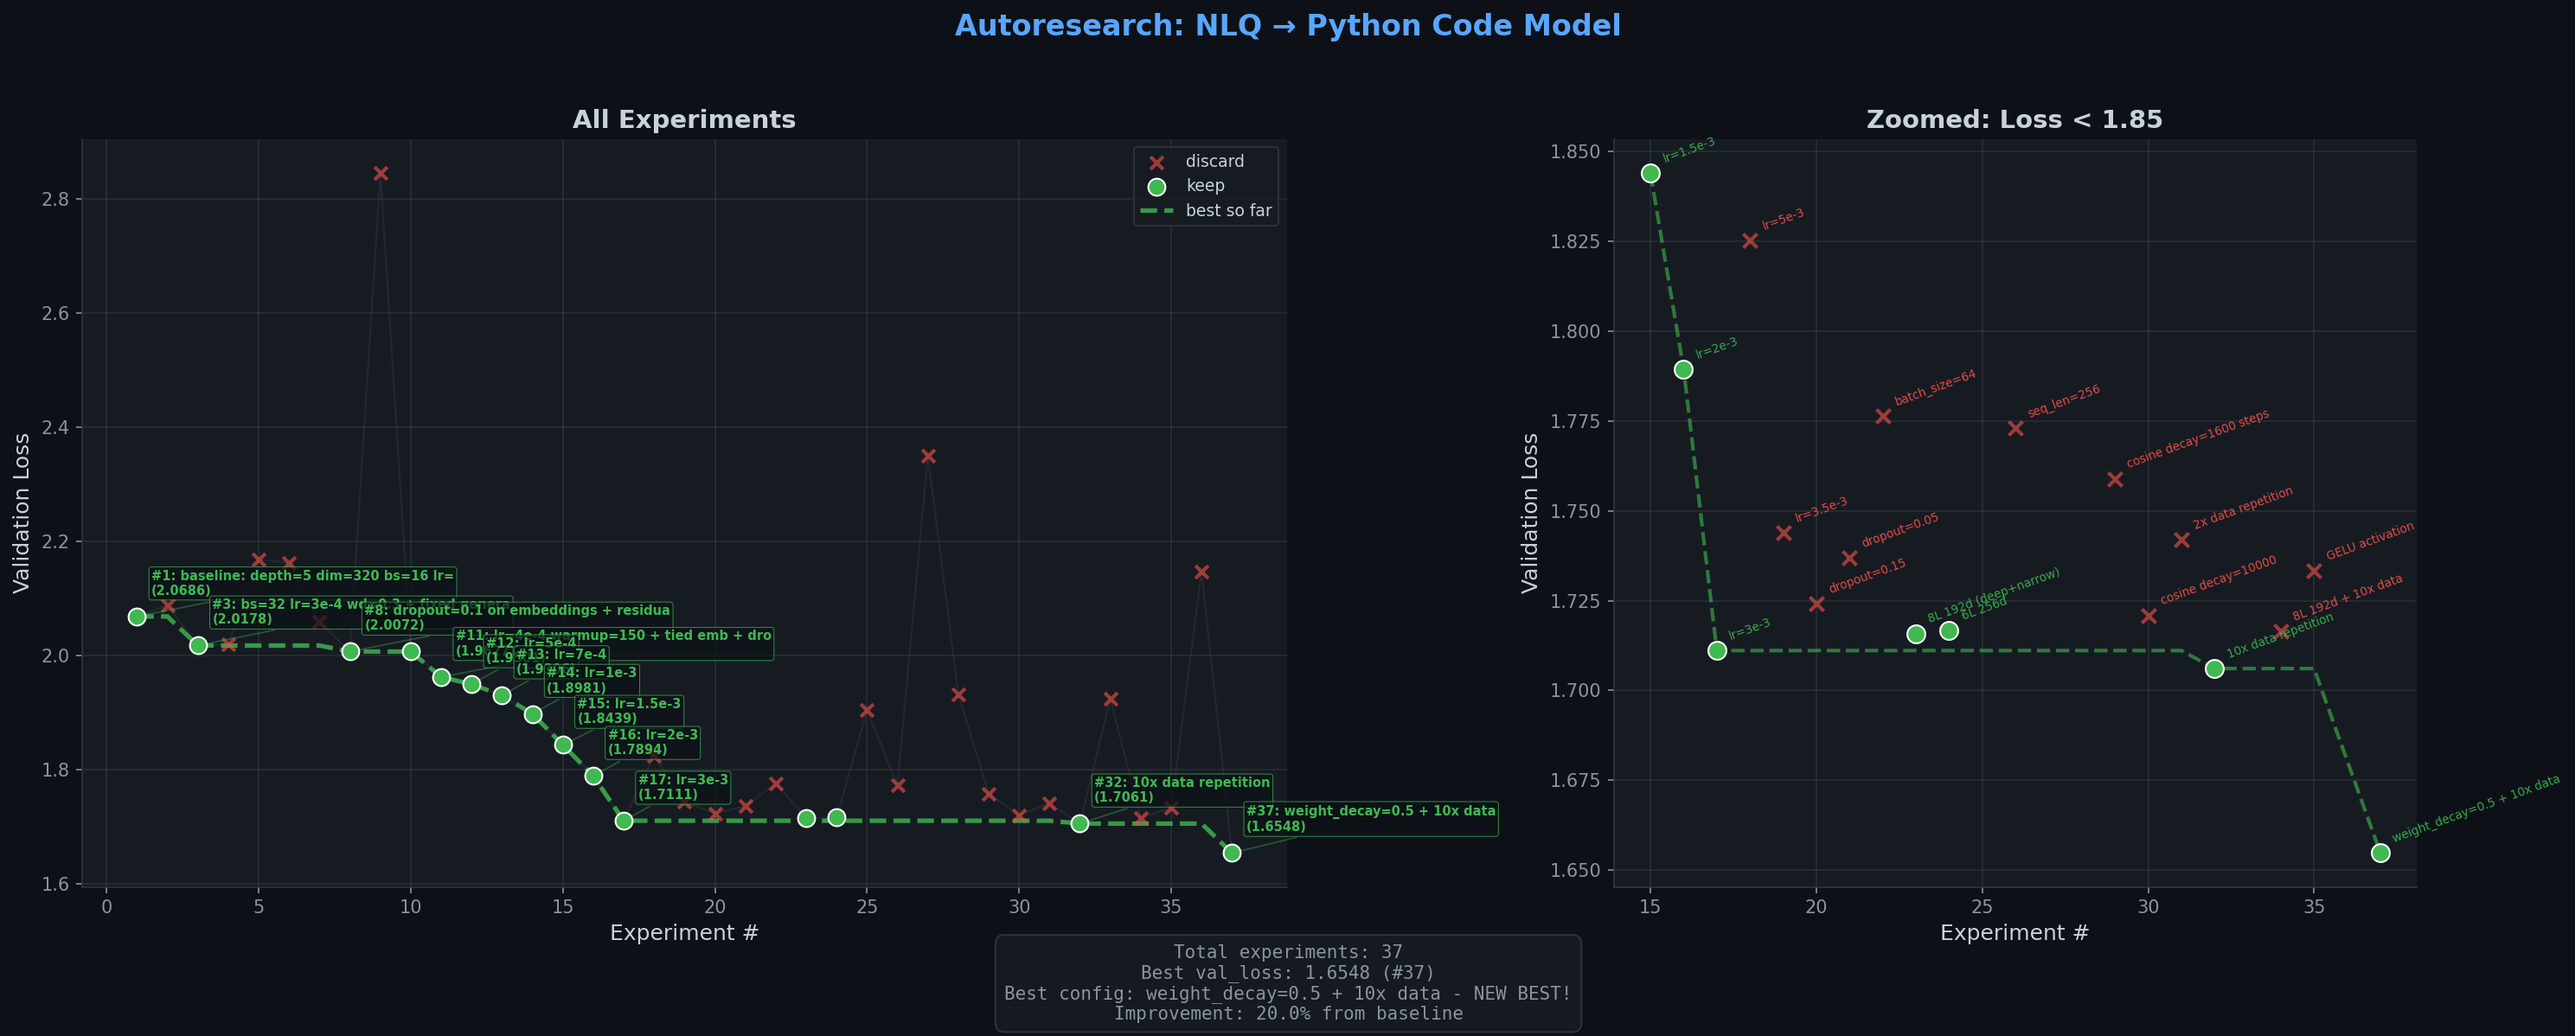
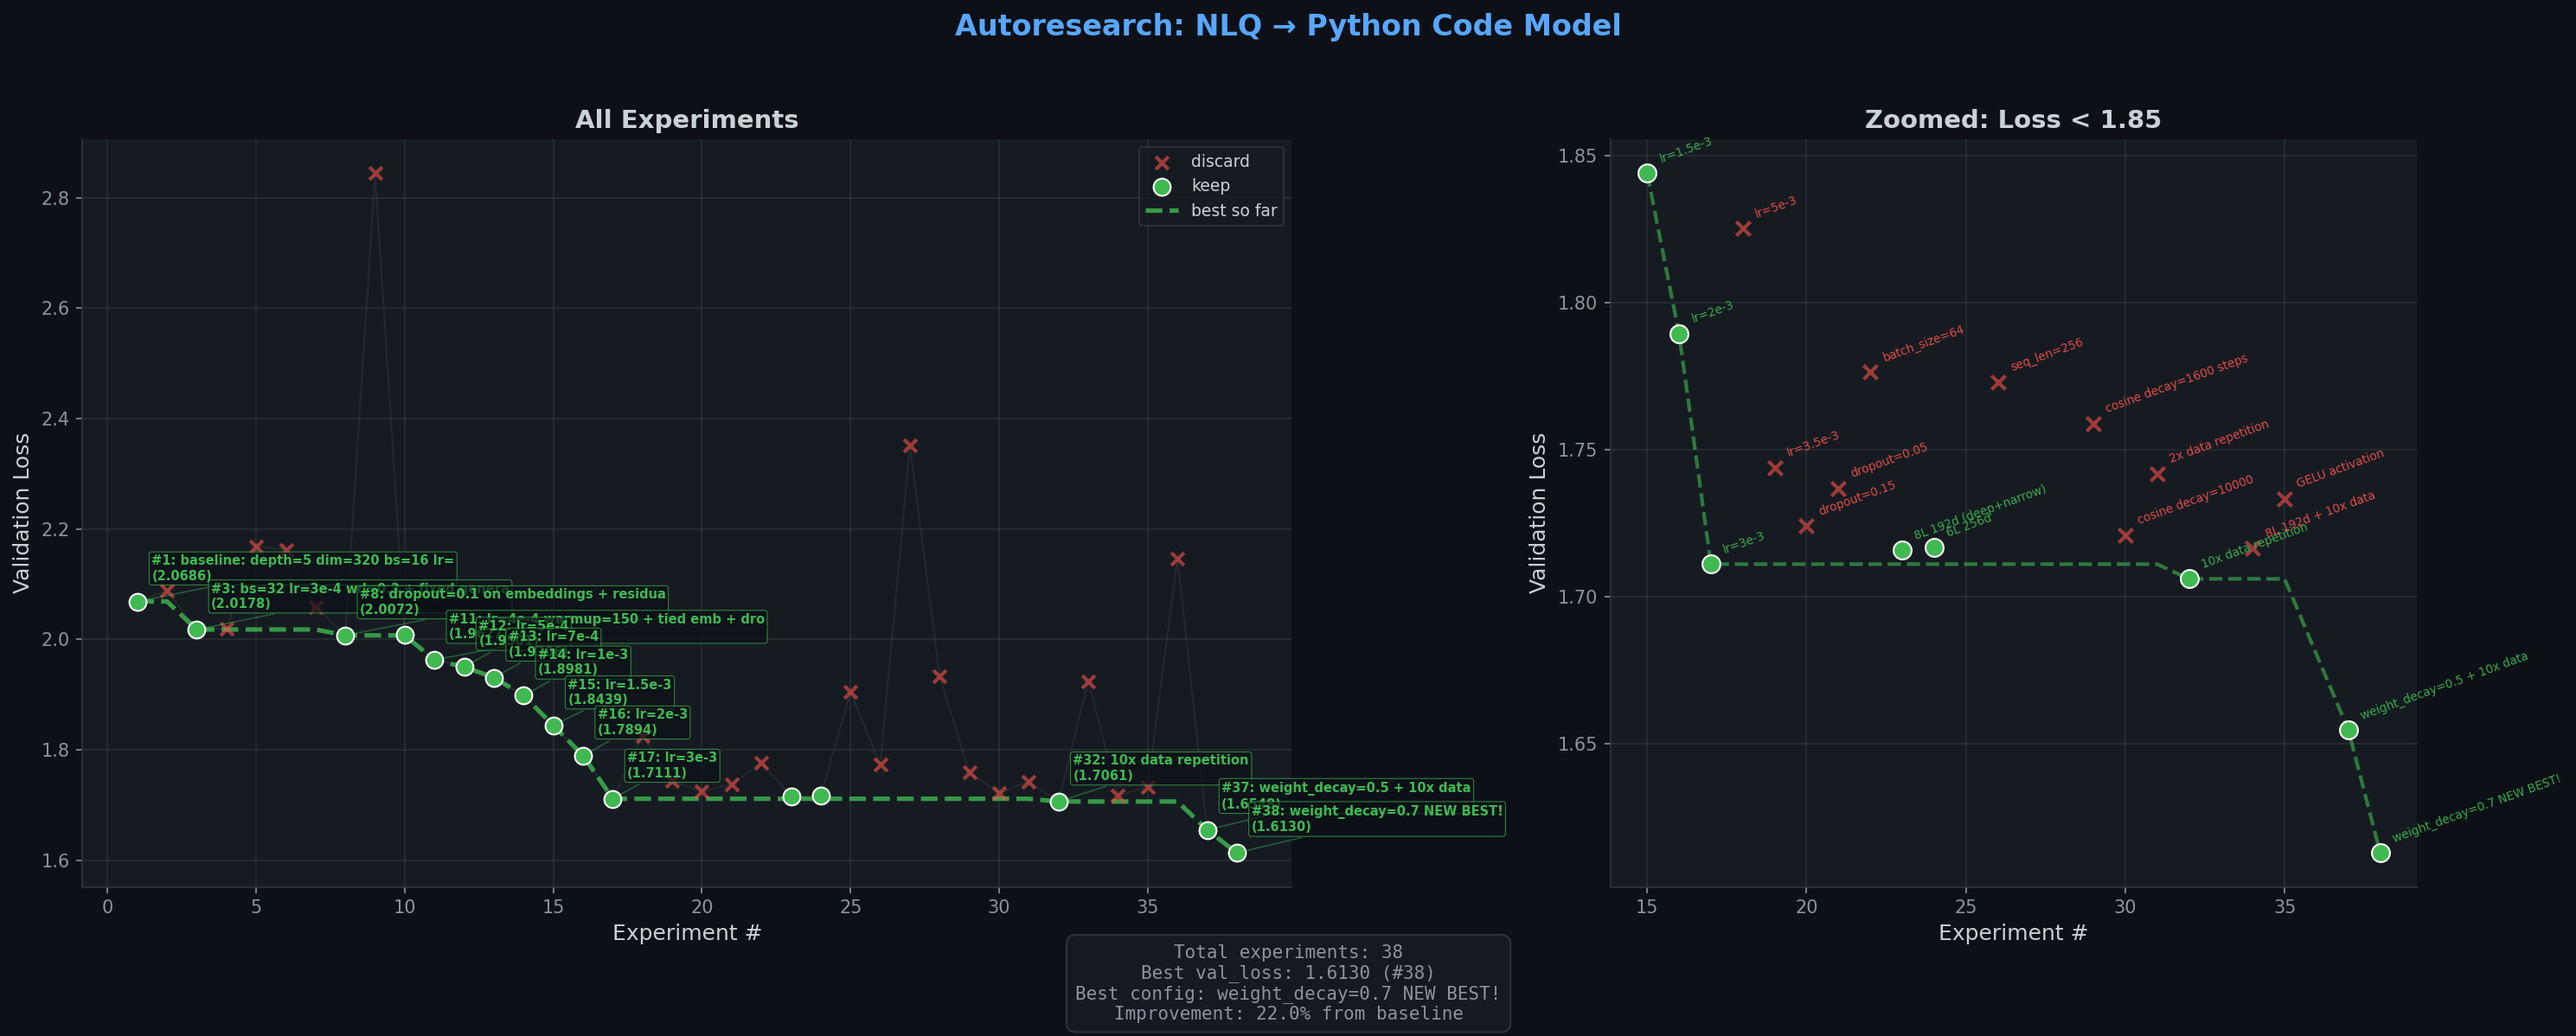
exp 038: weight_decay=0.7 NEW BEST! (val=1.6130)

diff --git a/train_mlx.py b/train_mlx.py
@@ -48,9 +48,9 @@ DROPOUT = 0.1
 # Training
 BATCH_SIZE = 32
 LEARNING_RATE = 3e-3
-WEIGHT_DECAY = 0.5
+WEIGHT_DECAY = 0.7
 WARMUP_STEPS = 150
-TIME_BUDGET = 300  # 5 minutes
+TIME_BUDGET = 300
 GRAD_CLIP = 1.0
 USE_LION = False
 
@@ -237,7 +237,7 @@ class Block(nn.Module):
         return x
 
 
-TIED_EMBEDDINGS = True  # share wte and lm_head weights
+TIED_EMBEDDINGS = True
 
 class GPT(nn.Module):
     def __init__(self, config):
